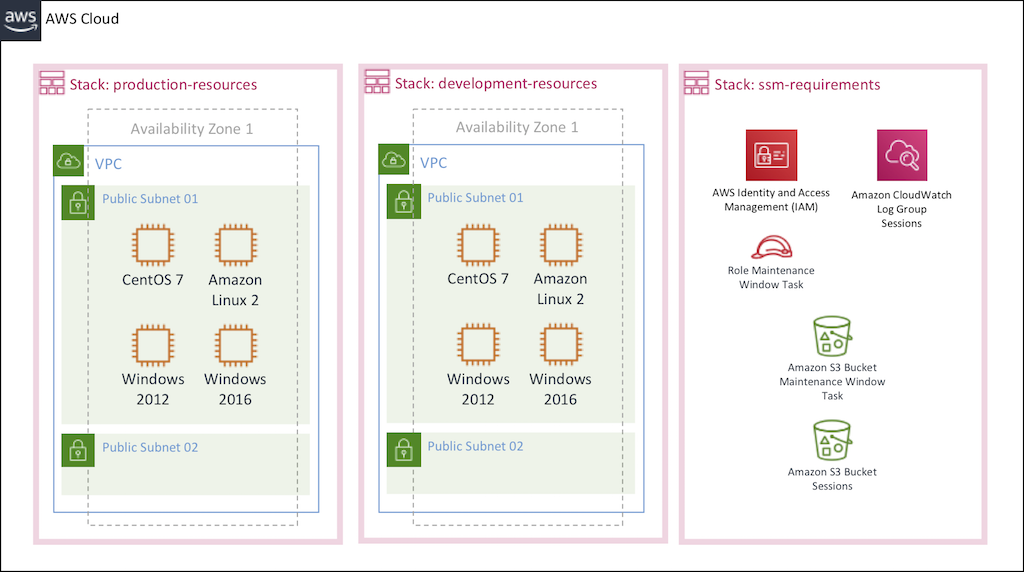
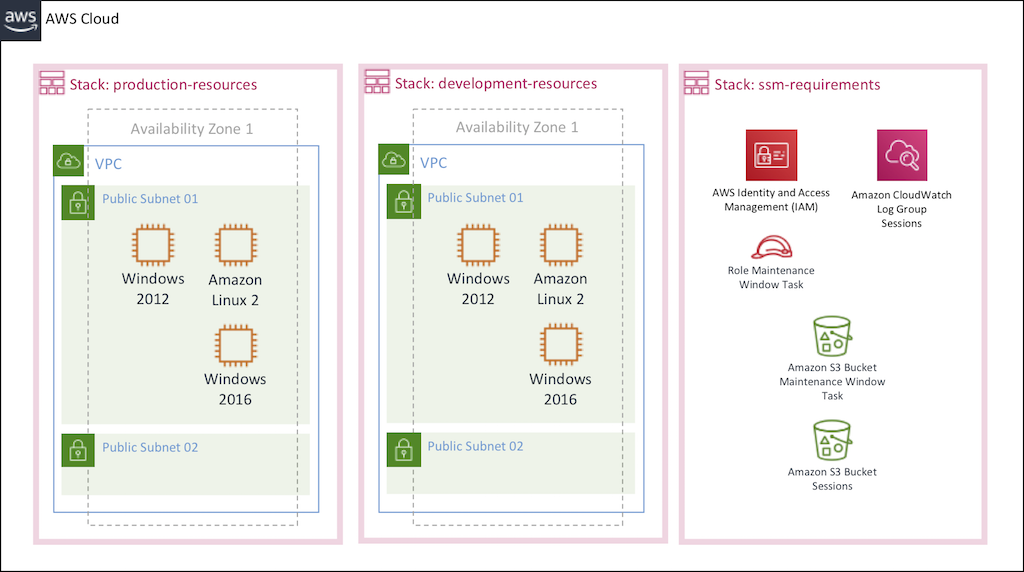
No Centos

diff --git a/tutorials/preparing-the-environment-and-inventory.md b/tutorials/preparing-the-environment-and-inventory.md
@@ -8,13 +8,7 @@
 
 1.3\. [Create a Keypair to log in to the EC2 instances.](https://docs.aws.amazon.com/AWSEC2/latest/UserGuide/ec2-key-pairs.html#having-ec2-create-your-key-pair)
 
-1.4\. Go to the AWS Marketplace for CentOS 7 https://aws.amazon.com/marketplace/pp/B00O7WM7QW?qid=1554065489734, choose **Continue to Subscribe** and choose **Accept Terms**.
-
-![Centos Continue to Subscribe](../images/centos-1.png)
-
-![Centos Accept Terms](../images/centos-2.png)
-
-1.5\. Download the [CloudFormation template AURBAC-AWS-Instances-For-SSM.yaml](../AURBAC-AWS-Instances-For-SSM.yaml), we are going to launch it two times in your selected region, the first one for the **production environment (stack: production-resources)** and the second one for the **development environment (stack: development-resources)**.
+1.4\. Download the [CloudFormation template AURBAC-AWS-Instances-For-SSM.yaml](../AURBAC-AWS-Instances-For-SSM.yaml), we are going to launch it two times in your selected region, the first one for the **production environment (stack: production-resources)** and the second one for the **development environment (stack: development-resources)**.
 
   a\. Open the AWS CloudFormation console at https://console.aws.amazon.com/cloudformation.
   
@@ -30,7 +24,7 @@
 
   g\. Check the box `I acknowledge that AWS CloudFormation might create IAM resources.` and click **Create**.
 
-1.6\. Download the [CloudFormation template AURBAC-AWS-SSM-Requirements.yaml](../AURBAC-AWS-SSM-Requirements.yaml) and launch to create the Amazon S3 buckets, CloudWatch Log Group and the IAM Role for the maintenance window task.
+1.5\. Download the [CloudFormation template AURBAC-AWS-SSM-Requirements.yaml](../AURBAC-AWS-SSM-Requirements.yaml) and launch to create the Amazon S3 buckets, CloudWatch Log Group and the IAM Role for the maintenance window task.
 
   a\. Open the AWS CloudFormation console at https://console.aws.amazon.com/cloudformation
   
@@ -46,7 +40,7 @@
 
   g\. Check the box `I acknowledge that AWS CloudFormation might create IAM resources.` and click **Create**.
 
-1.7\. Now you have two CloudFormation stacks with the services required as follows, for the **ssm-requirements** stack you will see some values in **Outputs** required further.
+1.6\. Now you have 3 CloudFormation Stacks with the services required as follows, for the **ssm-requirements** stack you will see some values in **Outputs** required further.
 
 ![Cloudformation Stacks](../images/stacks.png)
 
